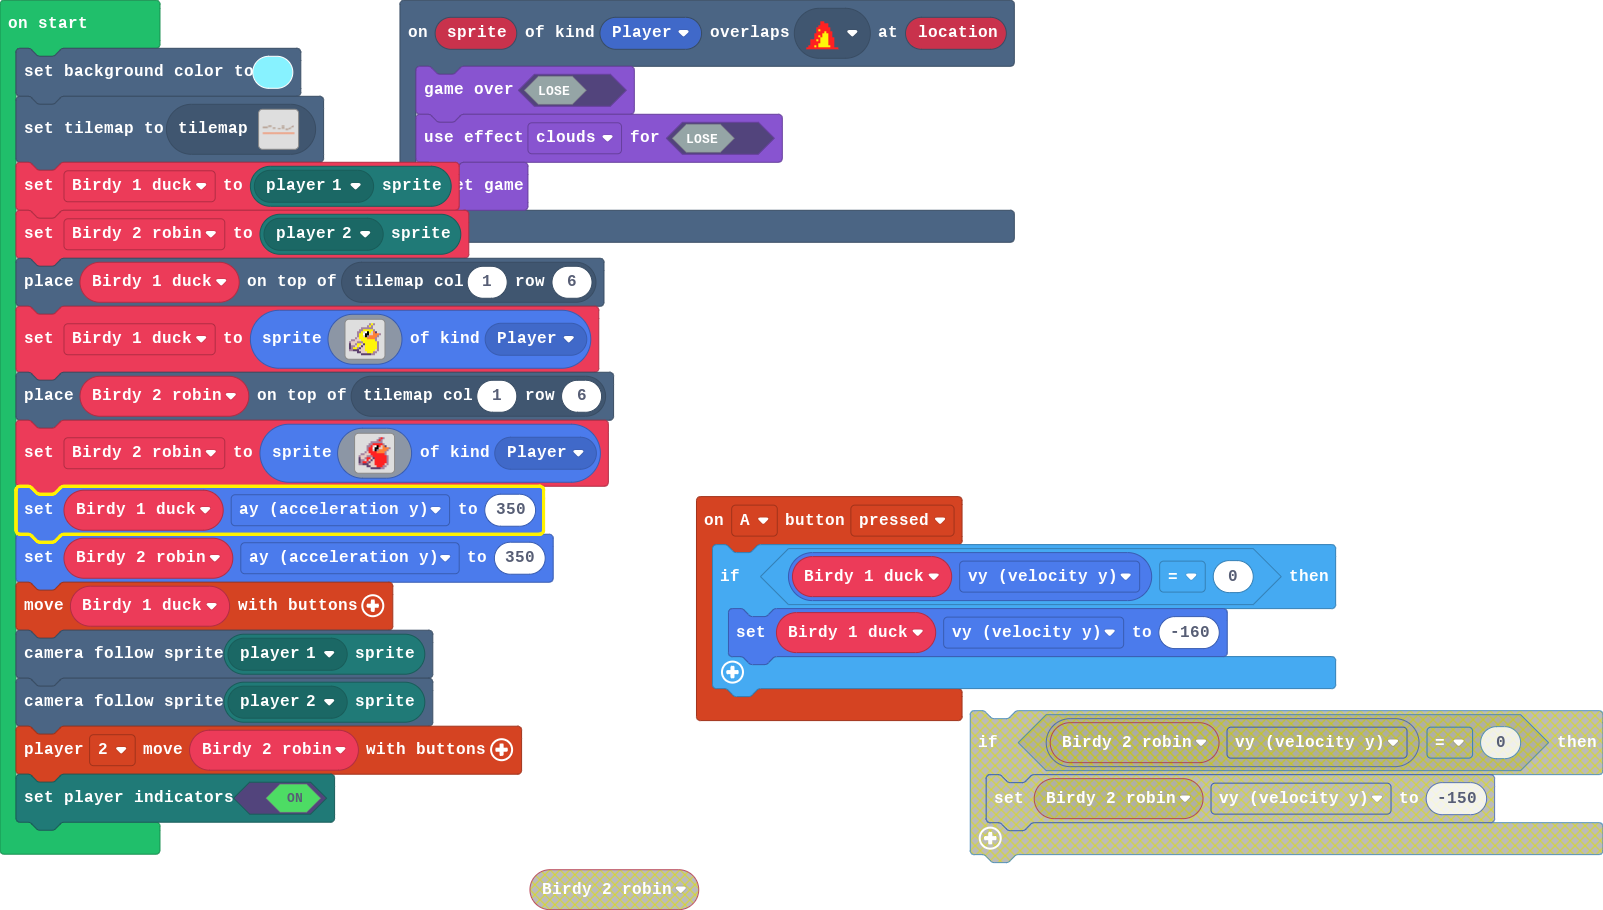
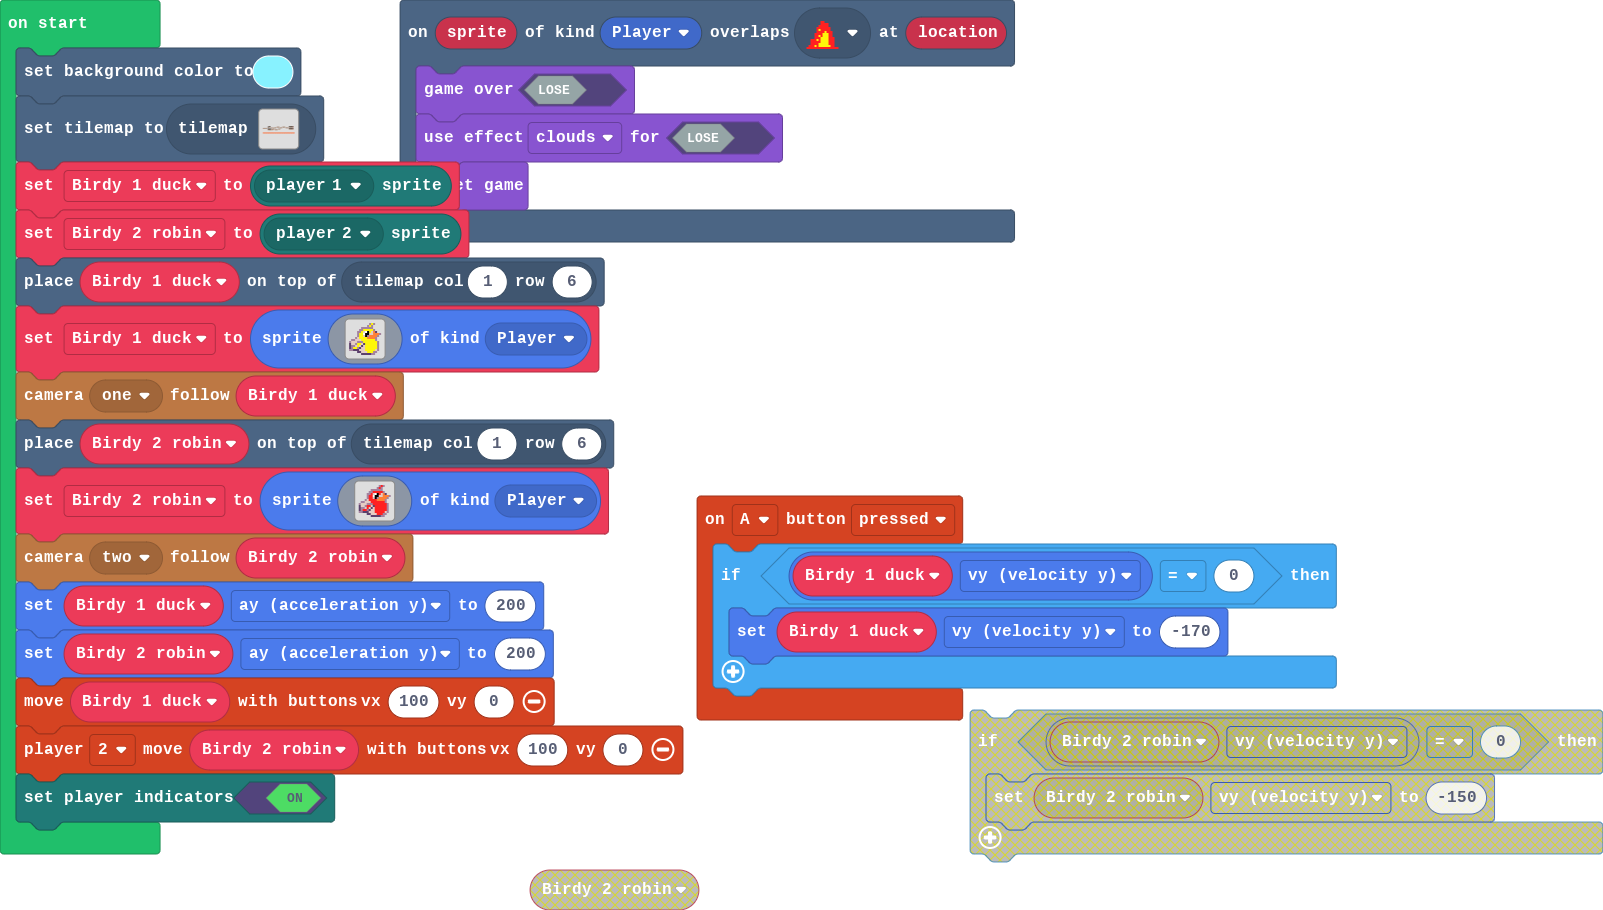
Update pxt.json, main.blocks, main.ts, tilemap.g.jres, tilemap.g.ts

diff --git a/tilemap.g.ts b/tilemap.g.ts
@@ -12,6 +12,10 @@ namespace myTiles {
     export const tile4 = image.ofBuffer(hex``);
     //% fixedInstance jres blockIdentity=images._tile
     export const tile5 = image.ofBuffer(hex``);
+    //% fixedInstance jres blockIdentity=images._tile
+    export const tile6 = image.ofBuffer(hex``);
+    //% fixedInstance jres blockIdentity=images._tile
+    export const tile7 = image.ofBuffer(hex``);
 
     helpers._registerFactory("tilemap", function(name: string) {
         switch(helpers.stringTrim(name)) {
@@ -267,24 +271,24 @@ namespace myTiles {
 . . . . . . . . . . . . . . . . 
 `, [myTiles.transparency16], TileScale.Sixteen);
             case "level4":
-            case "level4":return tiles.createTilemap(hex`320010000000000000000000000000000000000000000000000000000000000000000000000000000000000000000000000000000000000000000000000000000000000000000000000000000000000000000000000000000000000000000000000000000000000000000000000000000000000000000000000000000000000000000000000000000000000000000000000000000000000000000000000000000000000000000000000000000000000000000000000000000000000000000000000000000000000000000000000000000000000000010101010100000000000000000000000000000000010101010000000000000000000000000003000000000000000000000000000000000000000000000000000000000000000000000000000000000000000000000001010100000101010101010101000000000000000000000000000000000000000000000000000000000000000000000000000000000000000000000000000000000000000000000101010100000000000000000000010101010000000000000000010001000000000000000000000000000000000000000000000000000000000001010101000000000000000000000000000101000000000000000000000000000000000000000000000000000000000000000000000000000000000000000101010100000000000000000000000000000000000000000000000000000000000000000000000000000000000000000000000000000000000000000000000000000000000000000000000000000000000000000000000000000000000000000000000000000000000000000000000000000000000000000000000000000000000000000000000000000000000000000000000000000000000000000000000000000000000000000000000000000000000000000000000000000000000000000000000000000000000000000000000000000000000000000000000000000000000000000000000000000000000000000000000000000000000000000000000000000000000000000202020202020202020202020202020202020202020202020202020202020202020202020202020202020202020202020202`, img`
-..................................................
-..................................................
-..................................................
-..................................................
-.........22222................2222................
-.............................................222..
-22222222..........................................
-................2222..........2222........2.2.....
-........................2222.............22.......
-........................2...........2222..........
+            case "level4":return tiles.createTilemap(hex`320010000000000000000000000000000000000000000000000000000000000000000000000000000000000000000000000000000000000000000000000000000000000000000000000000000000000000000000000000000000000000000000000000000000000000000000000000000000000000000000000000000000000000000000000000000000000000000000000000000000000000000000000000000000000000000000000000000000000000000000000000000000000000000000000000000000000000000000000000000000000000000000000000000000000000000000000000000000000000000000000000000000000000000000000000000000000000000005050500000000000000000000000000000000000000000000000000000000000707070707070300000000000000000000050101010000000000000000000001010101000000000001010101000000000000010101010101010000000000000000000001000000000101000100010101000000000000010101000000000000010101010000000000000000000001010101010101000000000000000000000000000000000000000000000000000000000000000000000606060606060300000000000000000000040404040400000101010000000000000101010000000000000000000000000000010101010101010000000000000000000001010101010001010000000101010100000000000000000000000000000000000000000000000000000000000000000000000000000000000000000000000000000000000000000000000000000000000000000000000000000000000000000000000000000000000000000000000000000000000000000000000000000000000000000000000000000000000000000000000000000000000000000000000000000000000000000000000000000000000000000000000000000000000000000000000000000000000000000000000000000000000000000000000000000000000000000000000000000000000000000000000202020202020202020202020202020202020202020202020202020202020202020202020202020202020202020202020202`, img`
 ..................................................
 ..................................................
 ..................................................
 ..................................................
 ..................................................
 ..................................................
-`, [myTiles.transparency16,myTiles.tile1,myTiles.tile3,myTiles.tile2], TileScale.Sixteen);
+.........222..........2222.....2222......2222222..
+........2....22.2.222......222......2222..........
+2222222...........................................
+...............222......222..............2222222..
+........22222.22...2222...........................
+..................................................
+..................................................
+..................................................
+..................................................
+..................................................
+`, [myTiles.transparency16,myTiles.tile1,myTiles.tile3,myTiles.tile2,myTiles.tile4,myTiles.tile5,myTiles.tile6,myTiles.tile7], TileScale.Sixteen);
         }
         return null;
     })
@@ -302,6 +306,10 @@ namespace myTiles {
             case "tile4":return tile4;
             case "myTile3":
             case "tile5":return tile5;
+            case "myTile4":
+            case "tile6":return tile6;
+            case "myTile5":
+            case "tile7":return tile7;
         }
         return null;
     })

diff --git a/main.ts b/main.ts
@@ -8,7 +8,7 @@ scene.onOverlapTile(SpriteKind.Player, assets.tile`myTile1`, function (sprite, l
 })
 controller.A.onEvent(ControllerButtonEvent.Pressed, function () {
     if (Birdy_1_duck.vy == 0) {
-        Birdy_1_duck.vy = -160
+        Birdy_1_duck.vy = -170
     }
 })
 let Birdy_1_duck: Sprite = null
@@ -35,6 +35,7 @@ Birdy_1_duck = sprites.create(img`
     . . . . c c d d d 5 5 5 b b . . 
     . . . . . . c c c c c b b . . . 
     `, SpriteKind.Player)
+splitScreen.cameraFollowSprite(splitScreen.Camera.Camera1, Birdy_1_duck)
 tiles.placeOnTile(Birdy_2_robin, tiles.getTileLocation(1, 6))
 Birdy_2_robin = sprites.create(img`
     . . . . . . . . . . b 2 b . . . 
@@ -54,10 +55,9 @@ Birdy_2_robin = sprites.create(img`
     . . . . c c d d d 2 2 2 b b . . 
     . . . . . . c c c c c b b . . . 
     `, SpriteKind.Player)
-Birdy_1_duck.ay = 350
-Birdy_2_robin.ay = 350
-controller.moveSprite(Birdy_1_duck)
-scene.cameraFollowSprite(mp.getPlayerSprite(mp.playerSelector(mp.PlayerNumber.One)))
-scene.cameraFollowSprite(mp.getPlayerSprite(mp.playerSelector(mp.PlayerNumber.Two)))
-controller.player2.moveSprite(Birdy_2_robin)
+splitScreen.cameraFollowSprite(splitScreen.Camera.Camera2, Birdy_2_robin)
+Birdy_1_duck.ay = 200
+Birdy_2_robin.ay = 200
+controller.moveSprite(Birdy_1_duck, 100, 0)
+controller.player2.moveSprite(Birdy_2_robin, 100, 0)
 mp.setPlayerIndicatorsVisible(true)
